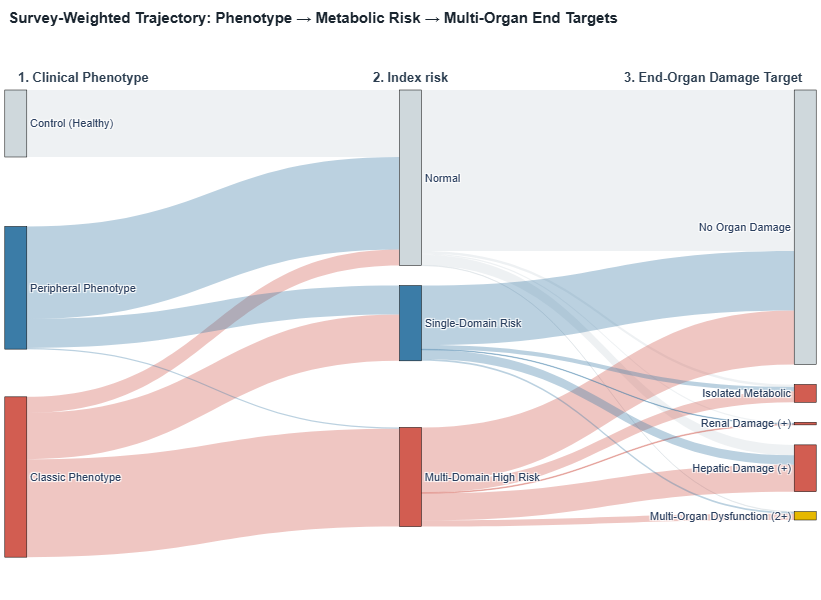
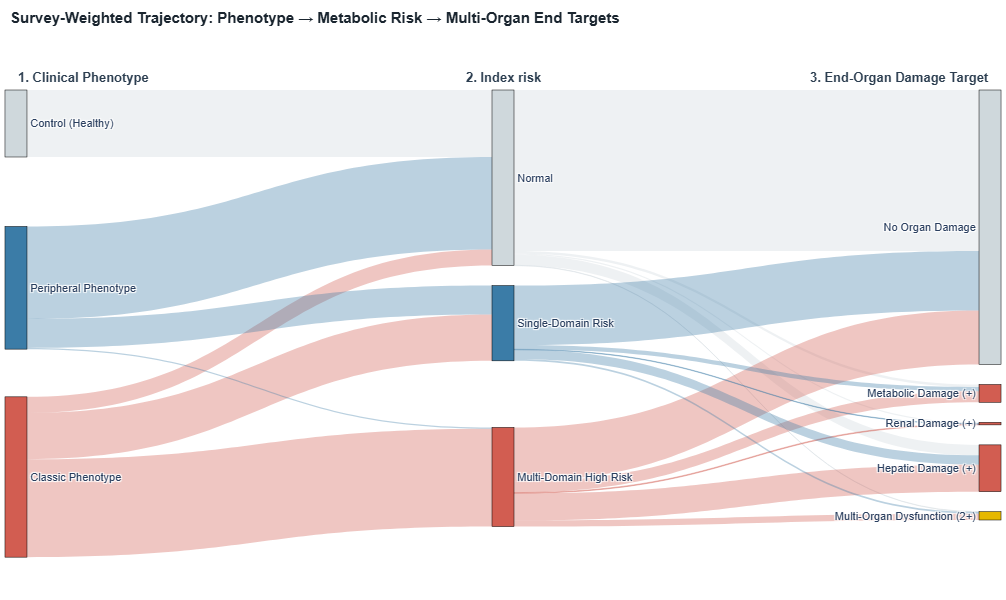
README: First draft (not completed)

diff --git a/README.md b/README.md
@@ -1,15 +1,200 @@
+# When Weight Doesn’t Weigh the Same on Everyone
+
+Applying The Lancet’s Clinical Obesity Framework to Map Phenotypic Diagnostic Gaps in NHANES 2021–2023
+
+## Executive Summary
+
+| Section | Content |
+|:---|:---|
+| **Context** | A 3-notebook analytical series applying The Lancet Commission (2025) Clinical Obesity Framework to the NHANES 2021–2023 data cycle (**N = 1,588** fasting subsample cohort). |
+| **Challenge** | Clinicians almost universally rely on Body Mass Index (**BMI ≥ 30 kg/m²**) as the default diagnostic gatekeeper for obesity assessment. This crude anthropometric metric creates a critical diagnostic gap: over-pathologizing metabolically healthy individuals with high BMI while failing to identify normal-BMI patients suffering from undiagnosed end-organ damage. |
+| **Strategy** | Synthesize 20 CDC survey modules across 3 standalone analytical notebooks: execute deterministic structural imputation for gatekeeper skip logic, align complex survey architecture using Masked Variance Units (MVUs) and fasting weights, and construct multi-system clinical risk indices (e.g. CKD-EPI eGFR, Fatty Liver Index, METS-IR) to stratify population survey data into obesity phenotypes. |
+| **Key Metric** | Robust Prevalence Ratio (PR) for hepatic end-organ damage derived via GEE Poisson Regression (log link) clustered on Masked Variance Units (MVUs) and weighted by Fasting Subsample weights (`WTSAF2YR`). | 
+| **Outcome** | Highlighted that elevated METS-IR serves as a important independent risk factor of hepatic end-organ damage, driving distinct prevalence ratios between peripheral and classic phenotypes. |
+
+## 📑 Table of Contents
+
+* [Outcome: METS-IR as a surrogate for hepatic end-organ damage](#-outcome-mets-ir-as-a-surrogate-for-hepatic-end-organ-damage)
+* [Technical structure](#-technical-structure)
+* [Data Context & Population Flow](#-data-context--population-flow)
+* [Complex Survey design](#-complex-survey-design)
+* [Risk indices feature engineering](#-risk-indices-feature-engineering)
+* [Descriptive Population Stratification by phenotype](#-descriptive-population-stratification-by-phenotype)
+* [Regression Framework: Pooled and Stratified Models](#-regression-framework-pooled-and-stratified-models)
+* [Survey-Weighted Trajectory Analysis](#-survey-weighted-trajectory-analysis)
+
+## 📊 Outcome: METS-IR as a driver for hepatic end-organ damage
+
+### Key Analytical Takeaways
+
+1. **The Diagnostic Misclassification of BMI:** Individuals classified as Overweight ($\text{BMI } 25.0\text{--}29.9\text{ kg/m}^2$) bifurcate into the Peripheral Obesity Phenotype, while a metabolically vulnerable subset with normal BMI also transitions into this stratum.
+
+2. **Surrogate Index Performance (METS-IR):** Non-invasive metabolic index (METS-IR) demonstrated superior parameter stability and diagnostic concordance for FibroScan-confirmed hepatic fibrosis compared to other lipid and glycemic ratios.
+
+3. **Phenotypic Risk Tipping Points:** Within the Peripheral Phenotype ($N = 585$), crossing the METS-IR threshold triggers a 3.60-fold increase ($PR = 3.60, p = 0.004$) in hepatic damage risk relative to metabolically normal peripheral controls. In the Classic Phenotype ($N = 731$), high baseline risk is already established, with elevated METS-IR compounding risk by 2.76-fold ($PR = 2.76, p < 0.001$).
+
+## 🔎 Data Context & Population Flow
+
+This project synthesizes data from the NHANES 2021–2023 Cycle released by the CDC National Center for Health Statistics (NCHS). To capture silent end-organ pathology, 20 survey modules spanning Demographics, Examination, Laboratory, and Questionnaire categories were integrated.
+
+![Cohort flowchart](/assets/final_flowchart.svg)
+
+The final target cohort ($n = 1,588$ working-age adults) is established through a multi-stage epidemiological filtering strategy. Rather than executing a destructive flat subsetting of the dataframe, the pipeline isolates this subpopulation to minimize non-response bias, eliminate structural confounding, and guarantee full data density across downstream index calculations:
+
+- **Fasting Subsample Weighting (`WTSAF2YR`):** Restricted strictly to participants dynamically assigned to the morning fasting subsample who met physiological fasting durations and provided valid blood specimens. Utilizing dedicated WTSAF2YR weights is epidemiologically mandatory to counteract selection bias and maintain true population representativeness during GEE variance estimation.
+
+- **Physiological Stabilization Filters:**
+
+    - **Pregnancy Exclusion (RIDEXPRG == 1):** Eliminates acute, non-pathological gestational shifts in body composition, lipid metabolism, and insulin sensitivity that would otherwise confound baseline obesity phenotypes.
+    - **Working-Age Restraints ($18 \le \text{Age} < 65$):** Isolates a mature metabolic profile, removing pediatric development variables on the lower bound and minimizing geriatric survivorship bias or competing mortality risks on the upper bound.
+
+- **Complete-Case Feature Integrity:** Ensures zero missingness across mandatory clinical parameters in order to calculate risk indices such as:
+    - **AHA PREVENT Equations:** Retaining complete records for cardiovascular-kidney-metabolic (CKM) variables (SBP, anti-hypertensive med history, smoking status, lipid fractions, eGFR).
+    - **Metabolic, hepatic and renal indices:** Guaranteeing zero missingness among baseline anthropometric and biochemical components required for composite metabolic markers (e.g., METS-IR, TyG index).
+    
+### Phenotype Operationalization & Unclassified Exclusion Rule
+
+The obesity_criteria engine operationalizes demographic-adjusted thresholds (WHO Waist Circumference: Men $> 102\text{ cm}$, Women $> 88\text{ cm}$; WHR: Men $> 0.90$, Women $> 0.85$; WHtR $\ge 0.50$) and sums positive central markers (anthro_criteria_count) to assign subjects into discrete clinical tiers:
+
+- **Control Phenotype:** Clean baseline controls with normal BMI ($18.5 \le \text{BMI} < 25$) and zero central adiposity risk criteria ($0$).
+
+- **Peripheral Phenotype:** Normal BMI ($18.5 \le \text{BMI} < 25$) paired with high central visceral deposition ($\ge 2$ criteria).
+
+- **Classic Phenotype:** High BMI ($\text{BMI} \ge 30$) paired with clinical central adiposity ($\ge 1$ criterion).
+
+- **Unclassified Tiers (Excluded from Primary Analysis):** Any observation falling outside these explicit phenotypic boundaries—such as overweight subjects ($\text{BMI } 25.0\text{--}29.9\text{ kg/m}^2$) presenting with 0 or 1 central adiposity criteria—is assigned as "unclassified". These unclassified records are ruled out from primary comparative regression models to prevent boundary blurring and maintain clean contrast against the control baseline.
+
+> **Outliers**  
+> Explain why these outliers may exist and their interpretation
+
+
 ## 💻 Technical structure
 ### Project Schema
 ```text
-├── sources/                      # Raw NHANES 2021-2022 .XPT files
-├── notebooks/                    # Step-by-step documentation of the Google framework
-│   ├── 1_prepare_process.ipynb   # ETL Pipeline: Batch-loading, left-joins, missing data audit
-│   ├── 2_analyze_modeling.ipynb  # Feature engineering, PR calculation
-│   └── 3_share_visuals.ipynb     # Code-based plots (Seaborn/Matplotlib) exported to presentation
-├── dashboards/                   # Optional: Files or templates for Tableau
-│   └── obesity_treatment_gap.twbx
-├── .gitignore             # Configured with wildcards to block data leakage (*.XPT, *.csv, sources/)
-├── README.md              # The core asset: Your business and clinical narrative
-├── requirements.txt       # Python environment dependencies (pandas, pyreadstat, statsmodels, etc.)
-└── LICENSE                # Open-source license (e.g., MIT)
+├── sources/                    # Raw NHANES 2021-2022 .XPT files
+├── notebooks/                  
+│   ├── 01_prepare.ipynb        # Batch-loading, data audit and imputation
+│   ├── 02_process.ipynb        # Phenotypic Stratification, risk index Construction
+│   └── 03_analysis.ipynb       # Survey-Weighted Statistics and GEE Poisson Regressions
+├── README.md                   # Project overview
+├── requirements.txt            # Python environment dependencies
+└── LICENSE                     # Open-source license (e.g., MIT)
 ```
+
+## 💽 Complex Survey design
+
+To produce statistically valid US population-level inferences, this pipeline embeds probability sampling parameters throughout the data processing and modeling stages.
+
+### Methodological Core: Poisson GEE + Sandwich Variance
+
+Variance estimation in complex survey data requires handling both overdispersion and intra-cluster correlation across Masked Variance Units (MVU). Rather than relying on model-based standard errors, our regression architecture combines a Poisson Mean Link with an Empirical Sandwich Covariance Estimator
+
+### Key Survey Rules Applied
+
+- **Least Common Denominator Weighting:** Because some risk indices like metabolic insulin resistance (METS-IR) and fasting plasma glucose/triglycerides require morning fasting, the 2-year fasting subsample weight (`WTSAF2YR`) was designated as the primary analysis weight for the cohort ($N = 1,588$).
+
+- **Exchangeable Correlation Structure:** Primary sampling unit dependency is modeled using an exchangeable working correlation structure, preventing variance inflation and artificially narrow $p$-values.
+
+## 🧮 Risk indices and feature engineering
+
+To move beyond crude anthropometrics, key variables were transformed into validated clinical risk indices. Mathematical definitions implemented across the pipeline include:
+
+**Metabolic Score for Insulin Resistance (METS-IR)**
+
+$$\text{METS-IR} = \frac{\ln\left((2 \times G_0) + \text{TG}_0\right) \times \text{BMI}}{\ln(\text{HDL}_c)}$$
+
+**Chronic Kidney Disease Epidemiology Collaboration (CKD-EPI 2021)**
+
+$$\text{eGFR} = \mu \times \min\left(\frac{S_{cr}}{\kappa}, 1\right)^{\alpha_1} \times \max\left(\frac{S_{cr}}{\kappa}, 1\right)^{\alpha_2} \times c^{\text{Age}} \times d$$
+
+**Product of Fasting Glucose and Triglycerides (TyG Index)**
+
+$$\text{TyG} = \ln \left( \frac{\text{TG} \times \text{FBG}}{2} \right)$$
+
+### Gatekeeper Skip Logic & Deterministic Imputation
+
+In population survey databases, questionnaire and examination modules utilize Gatekeeper Skip Logic (e.g., if a participant answers "No" to having ever been told they have kidney disease, subsequent questions regarding dialysis treatment are skipped by design).
+
+## 📊 Descriptive Population Stratification by phenotype
+
+To evaluate how health status transitions across body composition phenotypes, population data was stratified across three clinical tiers: Control, Peripheral phenotype, and Classic phenotype.
+
+| Variable | Overall | Control | Peripheral | Classic |
+| :- | -: | -: | -: | -: |
+| Age (years) | 40.92 | 32.05 | 45.55 | 42.94 |
+| Systolic BP (mmHg) | 117.21 | 112.75 | 118.29 | 119.31 |
+| Diastolic BP (mmHg) | 74.59 | 68.59 | 74.11 | 78.64 |
+| Pulse rate | 70.88 | 69.30 | 70.41 | 72.06 |
+| Fasting Glucose (mg/dL) | 105.06 | 98.72 | 103.94 | 111.31 |
+| Triglycerides (mg/dL) | 108.60 | 74.17 | 117.46 | 124.36 |
+| HDL Cholesterol (mg/dL) | 53.62 | 60.70 | 53.50 |	49.59 |
+| Liver Stiffness (kPa) | 5.76 | 4.86 | 5.42 | 6.79 |
+| eGFR (mL/min/1.73m²) | 102.51 | 108.14 | 99.57 | 101.41 |
+| Hepatic damage (%) | 13.96 | 4.08 | 9.55 | 25.13 |
+| Metabolic damage (%) | 6.42 | 0.09 | 7.90 | 9.82 |
+| Renal damage (%) | 0.99 | 0.0 | 0.93 | 1.54 |
+
+## 🗃 Biomarker Distribution & Phenotypic Separation
+
+To evaluate how risk indices separate across the three clinical tiers, survey-weighted mean distributions were compared using design-adjusted Wald F-tests.
+
+![Indices ridgelines](/assets/plot_indices_ridgeline.png)
+
+| Index | Control (Mean ± SD) | Peripheral (Mean ± SD) | Classic (Mean ± SD) | Wald F-Test (p-value) |
+| :- | -: | -: | -: | -: |
+| Estimated GFR	| 108.14 (±15.76) | 99.57 (±16.33) | 101.41 (±18.15) | < 0.001
+| Triglycerides/Glucose | 8.09 (±0.48) | 8.57 (±0.58) | 8.70 (±0.57) | < 0.001 |
+| Atherogenic Plasma Index | 0.06 (±0.22) | 0.30 (±0.29) | 0.37 (±0.26) | < 0.001 |
+| METS-IR Score | 30.45 (±3.41) | 38.67 (±5.23) | 55.37 (±10.86) | < 0.001 |
+| FIB4 | 0.73 (±0.42) | 0.96 (±0.69) | 0.76 (±0.42) | < 0.001 |
+| Fatty Liver Index | 9.29 (±7.39) | 41.25 (±22.31)	| 82.72 (±16.98) | < 0.001 |
+| Fibrotic NASH Index | 0.06 (±0.09) | 0.10 (±0.12) | 0.13 (±0.16) | < 0.001 |
+| PREVENT total risk | 0.96 (±2.02) | 3.38 (±3.94) | 3.37 (±4.14) | < 0.001 |
+
+### Ridgeline density insights
+
+- **Fatty Liver Index (FLI):** Demonstrates near-complete multimodal separation between phenotypes. While Control sits in a tight lower boundary ($< 20$) and Peripheral spans a broad intermediate range, Classic exhibits a dense shift toward the extreme upper boundary ($\ge 80$).
+
+- **METS-IR Score:** Highlights a progressive rightward density migration, shifting from a narrow distribution centered near $30$ (Control) to a wide, right-skewed distribution centered above $55$ (Classic).
+
+*All indices demonstrate statistically significant phenotypic separation ($p < 0.001$ via survey-adjusted Wald F-tests).*
+
+## 🛠 Regression Framework: Pooled and Stratified Models
+
+### Methodological Justification for Stratification
+
+When evaluating interaction terms between physical phenotypes and metabolic surrogates in pooled regression architectures ($\text{Outcome} \sim \text{Phenotype} \times \text{METS-IR}$), standard models encounter Numerical Non-Convergence:
+
+- **The Control Reference Cell Failure:** In the Control (non-obese) phenotype ($N = 272$), elevated METS-IR ($> 50.39$) exhibits near-zero positivity ($0.4\%$, $n \approx 1$).
+
+- **Variance Explosion:** Because the dummy-coded reference group main effect (METS-IR cutoff) evaluates risk strictly within Controls, the absence of exposed events causes the Hessian matrix to become singular. Standard errors explode to $\text{SE} \approx 10^6$, rendering $p = 1.000$ and invalidating multiplicative interaction parameters.
+
+- **The Stratified Solution:** Stratifying models by clinical phenotype isolates parameter estimation within each target population ($N_{\text{Peripheral}} = 585$, $N_{\text{Classic}} = 731$). This bypasses reference-cell sparsity, allows covariate slopes to vary freely, and produces robust Relative Risk ($\text{RR}$) estimates.
+
+## 🏹 Survey-Weighted Trajectory Analysis
+
+Survey-weighted Sankey diagrams map the population flow from standard anthropometrics through intermediate metabolic drivers to multi-organ damage endpoints.
+
+### Framework 1: Standard BMI $\rightarrow$ Clinical Phenotype $\rightarrow$ End-Organ Targets
+
+![BMI trajectory](/assets/plot_framework_sankey_bmi.png)
+
+- **Phenotypic Bifurcation:** Overweight participants ($\text{BMI } 25.0\text{--}29.9\text{ kg/m}^2$) feed entirely into the Peripheral Obesity Phenotype, accompanied by a metabolically vulnerable sub-stream from the Normal Weight tier.
+
+- **Target Concentration:** While the Control cohort flows exclusively to No Organ Damage, the Classic Phenotype acts as the primary source for Multi-Organ Dysfunction ($\ge 2$ domains), alongside isolated Hepatic Damage (+).
+
+### Framework 2: BMI Category $\rightarrow$ Visual Phenotype $\rightarrow$ METS-IR Risk $\rightarrow$ Hepatic Damage
+
+![METS-IR Trajectory](/assets/plot_framework_sankey_mets-ir.png)
+
+- **Metabolic Gateway Effect:** High METS-IR ($> 50.39$) acts as an important funnel. The Classic Phenotype accounts for the dominant flow into the High METS-IR node, which subsequently captures the majority of downstream Hepatic Damage (+) cases.
+
+- **Peripheral Protection Limit:** The majority of Peripheral subjects remain within the Normal METS-IR band ($\le 50.39$), escaping overt hepatic injury.
+
+### Framework 3: Phenotype $\rightarrow$ Domain Clustering $\rightarrow$ End-Organ Targets
+
+![Domain Trajectory](/assets/plot_framework_sankey.png)
+
+- **Pathology Accumulation:** The Peripheral Phenotype primarily fuels the Single-Domain Risk intermediate tier, terminating in isolated hepatic or metabolic strain. Conversely, the Classic Phenotype feeds the Multi-Domain High Risk intermediate tier, driving systemic end-organ damage.
+
+These visual trajectories reinforce that obesity phenotypes coupled with continuous metabolic insulin resistance escalates risk from isolated tissue strain to multi-system organ damage.
